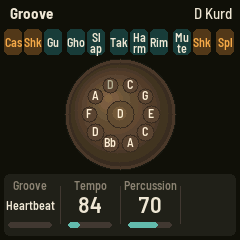
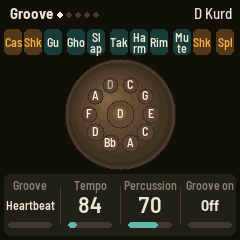
Docs: the arpeggiator, the sequencer and songs, project slots
README: the buttons' new jobs, the new pages and their knobs, sections
for the arp, the sequencer and songs and the project slots, the header's
transport readout, MIDI clock leading the transport, the tests; credit
to Melodee (Kerem Kilic, Ellic Studio) for the arp, the recording and
transport design and the click's voice, in README and LICENSING.md. The
browser page's help and keyboard map follow the gestures (` PLAY, Enter
REC, B ARP, N SEQ). Screenshots: Groove and Setup retaken, Arp, Steps,
Song and Projects added.

diff --git a/web/emu/index.html b/web/emu/index.html
@@ -122,7 +122,7 @@ footer { margin: 2rem 0 0; color: var(--muted); font-size: .88rem; }
 <ol class="quick" aria-label="Quick start">
   <li><span class="n">1</span><b>Switch on</b>, then tap the two middle keys: that's the <b>ding</b>.</li>
   <li><span class="n">2</span>Work <b>outward</b>, right then left, to climb the scale. Every note fits.</li>
-  <li><span class="n">3</span>The <b>white keys at each end</b> thwap the steel. Tap <b>ARP</b> for a groove to play over.</li>
+  <li><span class="n">3</span>The <b>white keys at each end</b> thwap the steel. Press <b>PLAY</b> for a groove to play over (Groove on, <b>SEQ</b>); <b>REC</b> records.</li>
 </ol>
 
 <p class="turn">Turn your phone sideways for bigger controls.</p>
@@ -150,7 +150,8 @@ footer { margin: 2rem 0 0; color: var(--muted); font-size: .88rem; }
       <li>The <b>two white keys at each end</b> are the steel: a palm <b>thwap</b> on the end key, a fingertip <b>tak</b> on the next one in, each on its own side of the shell.</li>
       <li>The <b>black keys</b> are the kit: <b>castanets</b> on the far left, then a <b>shaker</b> (an egg, pushed), <b>Gu</b> (a slap on the bottom port), <b>ghost</b> note, <b>ding slap</b>, <b>tak</b>, the ding's <b>harmonic</b>, <b>rim</b> knock, <b>mute</b>, the <b>shaker</b> pulled back, and a <b>splash</b> cymbal on the far right.</li>
       <li>Set <b>Black</b> to <b>Duo</b> (SEL) and the nine black keys between the castanets and the <b>Gu</b> (now far right) become a second handpan whose scale fits with the first, in the same register, laid out like the white keys: its ding in the middle, its notes alternating outward. Its notes show on its own pan on the screen.</li>
-      <li><b>ARP</b> starts a groove (hold it for its settings). <b>REC</b> mutes. <b>PLAY</b> freezes the grain cloud. <b>OCT−</b> / <b>OCT+</b> move the pan an octave.</li>
+      <li><b>PLAY</b> plays and stops the pattern (or the song) and the groove; hold it to freeze the grain cloud. <b>REC</b> arms recording: the first key you play starts it (hold REC to mute; hold REC and press PLAY for a count-in). <b>OCT−</b> / <b>OCT+</b> move the pan an octave.</li>
+      <li><b>ARP</b>: the arpeggiator. Set its Mode and hold a few notes. Hold <b>SEQ</b> and press a white key to choose a pattern (1 to 16); with SEQ held, <b>OCT−</b> clears it (twice), <b>OCT+</b> copies it, <b>EDIT</b> undoes the last take.</li>
     </ul>
   </div>
   <div>
@@ -159,7 +160,7 @@ footer { margin: 2rem 0 0; color: var(--muted); font-size: .88rem; }
       <li><b>SELECT</b> the metal: <b>Nitrided</b> (warm, the classic dark pan), <b>Stainless</b> (bright, the longest ring), <b>Ember</b> (mellow), <b>Raw</b> steel (earthy, drier).</li>
       <li><b>ALGORITHM</b> the scale, in the key it's usually built in. <b>PRESETS</b> moves the ding to any root.</li>
       <li><b>HOME</b> Pan: metal, strike, sustain, harmonics (how loud the octave and fifth above each note are). Press again for <b>Shell</b>: size (44 to 62 cm), thickness (1.0 to 1.4 mm), sympathy (how much the pan rings along), port (the air inside).</li>
-      <li><b>ENV</b> Touch: worn, humanize, tuning, release. <b>FX</b> Space, Color. <b>LFO</b> Grain, Spread. <b>SEL</b> Keys, Duo. <b>SEQ</b> Groove. <b>GLO</b> Setup. <b>EDIT</b> steps through them all.</li>
+      <li><b>ENV</b> Touch: worn, humanize, tuning, release. <b>FX</b> Space, Color. <b>LFO</b> Grain, Spread. <b>SEL</b> Keys, Duo. <b>ARP</b> Arp, Arp 2. <b>SEQ</b> Groove, Pattern, Steps, Tempo, Song. <b>GLO</b> Setup, Projects (four project slots: OCT+ saves, OCT− loads, each pressed twice). <b>EDIT</b> steps through them all.</li>
       <li>Hold <b>SAVE</b> for 1.5 s to go back to the defaults (SAVE again to confirm).</li>
     </ul>
   </div>
@@ -168,14 +169,14 @@ footer { margin: 2rem 0 0; color: var(--muted); font-size: .88rem; }
     <ul>
       <li><kbd>Space</kbd>, <kbd>G</kbd>, <kbd>H</kbd>: the ding. Home row out from the middle: <kbd>F</kbd> <kbd>J</kbd> <kbd>D</kbd> <kbd>K</kbd> <kbd>S</kbd> <kbd>L</kbd> <kbd>A</kbd> <kbd>;</kbd>, then <kbd>R</kbd> <kbd>U</kbd>. Tak: <kbd>E</kbd> <kbd>I</kbd>. Thwap: <kbd>W</kbd> <kbd>O</kbd>.</li>
       <li>Black keys: <kbd>1</kbd> to <kbd>0</kbd> and <kbd>-</kbd> (<kbd>1</kbd> castanets, <kbd>-</kbd> splash).</li>
-      <li><kbd>B</kbd> groove, <kbd>Enter</kbd> mute, <kbd>`</kbd> freeze, <kbd>Esc</kbd> HOME, <kbd>Z</kbd> / <kbd>X</kbd> octave.</li>
+      <li><kbd>`</kbd> PLAY (hold: freeze), <kbd>Enter</kbd> REC (hold: mute), <kbd>B</kbd> ARP, <kbd>N</kbd> SEQ (hold it with a white key: a pattern), <kbd>Esc</kbd> HOME, <kbd>Z</kbd> / <kbd>X</kbd> octave.</li>
       <li><kbd>↑</kbd> <kbd>↓</kbd> metal, <kbd>←</kbd> <kbd>→</kbd> scale, <kbd>[</kbd> <kbd>]</kbd> key.</li>
       <li>Mouse and touch: drag a knob up or down, or scroll over it. <kbd>Shift</kbd>-click a button to hold it down.</li>
     </ul>
   </div>
   <div>
     <h2>MIDI</h2>
-    <p>Notes strike the note of their pitch at their velocity, so a keyboard or pad controller plays it with real dynamics. <b>Channel 10</b> plays the steel and the kit (kick: Gu, snare: thwap, hats: tak, crash: splash, cabasa and maracas: shaker, castanets). The sustain pedal holds, the mod wheel sets sympathy, pitch bend bends the ringing notes, program change picks the metal, and MIDI clock leads the groove. Needs Web MIDI (Chrome or Edge).</p>
+    <p>Notes strike the note of their pitch at their velocity, so a keyboard or pad controller plays it with real dynamics. <b>Channel 10</b> plays the steel and the kit (kick: Gu, snare: thwap, hats: tak, crash: splash, cabasa and maracas: shaker, castanets). The sustain pedal holds, the mod wheel sets sympathy, pitch bend bends the ringing notes, program change picks the metal, and MIDI clock leads the transport: the arp, the sequencer and the groove. Needs Web MIDI (Chrome or Edge).</p>
   </div>
 </section>
 
@@ -357,8 +358,9 @@ function hit(c, cls) {
 // what each control does, on hover (the Buttons list below says the same)
 const TIP = { FX: "Space, then Color: reverb, delay; tape, lo-fi, chorus, filter", SEL: "Keys, then Duo: layout, scale, key, black keys; the second pan",
   ENV: "Touch: worn, humanize, tuning, release", LFO: "Grain, then Spread: the grain cloud; spray, feedback, width", EDIT: "Every page in turn",
-  GLO: "Setup page", HOME: "Pan, then Shell: metal, strike, sustain, harmonics; size, thickness, sympathy, port", SAVE: "Save (hold: reset to the defaults)",
-  ARP: "Tap: a groove on / off. Hold: its settings", SEQ: "Groove page: groove, tempo, percussion", PLAY: "Freeze the grains", REC: "Palm mute: damp everything",
+  GLO: "Setup, then Projects: tuning, MIDI, theme; the project slots", HOME: "Pan, then Shell: metal, strike, sustain, harmonics; size, thickness, sympathy, port", SAVE: "Save (hold: reset to the defaults)",
+  ARP: "Arp, then Arp 2: the arpeggiator", SEQ: "Groove, Pattern, Steps, Tempo, Song. Held: white keys choose a pattern",
+  PLAY: "Play / stop. Hold: freeze the grains", REC: "Arm recording. Hold: palm mute; with PLAY: count in",
   "OCT-": "Octave down", "OCT+": "Octave up", SELECT: "Metal", ALGORITHM: "Scale (in its usual key)", PRESETS: "Key: the ding's note",
   MASTER: "Volume" };
 for (const [n, c] of [...Object.entries(buttons), ...Object.entries(knobs)]) if (TIP[n]) c.g.setAttribute("aria-description", TIP[n]);
@@ -481,7 +483,7 @@ const CODE = { ";": "Semicolon" };
 WHITE_HINT.forEach((c, i) => KEYMAP[CODE[c] || "Key" + c] = { key: WHITE_K[i] });
 KEYMAP.Space = { key: WHITE_K[7] };
 BLACK_HINT.forEach((c, i) => KEYMAP[c === "-" ? "Minus" : "Digit" + c] = { key: BLACK_K[i] });
-Object.assign(KEYMAP, { KeyB: { btn: BTN.ARP }, Backquote: { btn: BTN.PLAY }, Enter: { btn: BTN.REC },
+Object.assign(KEYMAP, { KeyB: { btn: BTN.ARP }, KeyN: { btn: BTN.SEQ }, Backquote: { btn: BTN.PLAY }, Enter: { btn: BTN.REC },
                         Escape: { btn: BTN.HOME }, KeyZ: { btn: BTN["OCT-"] }, KeyX: { btn: BTN["OCT+"] } });
 addEventListener("keydown", (e) => {
   if (!node || e.metaKey || e.ctrlKey || e.altKey) return;

diff --git a/README.md b/README.md
@@ -24,6 +24,9 @@ C code compiled to WebAssembly, with mouse, touch, computer keyboard and MIDI in
 
 - [Pick it up and play](#pick-it-up-and-play)
 - [The controls](#the-controls)
+- [The arpeggiator](#the-arpeggiator)
+- [Sequencer and songs](#sequencer-and-songs)
+- [Project slots](#project-slots)
 - [The scales](#the-scales)
 - [How the handpan works](#how-the-handpan-works)
 - [MIDI](#midi)
@@ -43,7 +46,9 @@ C code compiled to WebAssembly, with mouse, touch, computer keyboard and MIDI in
 3. **The white keys at the ends are the steel.** The end keys are palm thwaps, the next ones in are
    fingertip taks, each on its own side of the shell. The black keys are a kit: castanets, shakers,
    the pan's own hits and a splash cymbal.
-4. **Tap ARP** for a groove (ding, fields, taks and thwaps), and play over it.
+4. **Press PLAY** with Groove on (SEQ, KNOB 4) for a groove (ding, fields, taks and thwaps), and play
+   over it. Tap **REC** and play to record a pattern; turn the **arp** on (ARP, KNOB 1) and hold a few
+   keys to hear them in turn.
 5. **Turn ALGORITHM** to change the scale (it comes in the key makers usually build it in) and
    **PRESETS** to move it to any key. **SELECT** changes the metal.
 
@@ -145,13 +150,14 @@ show which page you're on.
 | **FX**                            | Space → Color | Reverb and delay; tape, lo-fi, chorus, filter                                                  |
 | **LFO**                           | Grain → Spread | The grain cloud; its scatter, the echoes' feedback, the stereo width                          |
 | **SEL**                           | Keys → Duo  | Layout, scale, key, black keys; the second pan, its level, the percussion level, the octave      |
-| **SEQ**                           | Groove      | The groove's settings                                                                            |
-| **GLO**                           | Setup       | Tuning, MIDI, the theme; the version and CPU load                                                |
+| **ARP**                           | Arp → Arp 2 | The arpeggiator ([below](#the-arpeggiator)). Flashes on the beat while it's on                   |
+| **SEQ**                           | Groove → Pattern → Steps → Tempo → Song | The groove; the pattern, its steps, the tempo and recording, the song ([below](#sequencer-and-songs)) |
+| **GLO**                           | Setup → Projects | Tuning, MIDI, the theme; the project slots ([below](#project-slots))                        |
 | **EDIT**                          |             | Every page in turn                                                                               |
-| **ARP**                           |             | **Tap:** the groove on and off. Lit while it runs, dark on each beat. **Hold:** the Groove page. |
-| **PLAY**                          |             | Freeze the grain cloud; again to go live                                                         |
-| **REC**                           |             | Palm mute                                                                                        |
-| **OCT− / OCT+**                   |             | Move the pan an octave down or up                                                                |
+| **PLAY**                          |             | **Tap:** play and stop (the pattern, or the song; the groove with it). Lit while it plays, dark on each beat. **Hold ½ s:** freeze the grain cloud; again to go live |
+| **REC**                           |             | **Tap:** arm recording, and again to stop. Lit while recording, blinking while it waits. **Hold ½ s:** palm mute. **Hold with PLAY:** record after the count-in |
+| **SEQ held**                      |             | White keys 1–16 choose patterns 1–16 (playing: from the loop's end). **OCT−** clears the pattern (twice), **OCT+** copies it into the next empty one, **EDIT** undoes the last take |
+| **OCT− / OCT+**                   |             | Move the pan an octave down or up (Projects page: load / save the slot)                          |
 | **SAVE**                          |             | Save now (settings also save themselves a few seconds after a change). Hold 1.5 s: reset.        |
 | **OCT− + OCT+, held 5 s**         |             | Update mode (to install firmware)                                                                |
 | **OCT− + OCT+, held at power-on** |             | Hardware calibration                                                                             |
@@ -213,15 +219,20 @@ pitch, spray) and the stereo width. Every effect fades in and out without a clic
 | Percussion | 0–100 (70)          | The level of every hit on the steel                               |
 | Octave     | −1–+1 (0)           | The same as OCT− / OCT+                                           |
 
-**SEQ → Groove** (or hold ARP)
+**ARP → Arp**, **ARP → Arp 2**: the arpeggiator ([below](#the-arpeggiator)).
 
-![A groove running](docs/img/groove.png)
+**SEQ → Groove**
+
+![The Groove page](docs/img/groove.png)
 
 | Knob       | Range (default)                                   | What it does                                   |
 | ---------- | ------------------------------------------------- | ---------------------------------------------- |
-| Groove     | Heartbeat, Cascade, 3 over 2, Backbeat (Heartbeat) | Which groove ARP plays ([below](#grooves))     |
-| Tempo      | 40–200 BPM (84)                                   | Three pulses a beat. MIDI clock takes over while it comes in. |
+| Groove     | Heartbeat, Cascade, 3 over 2, Backbeat (Heartbeat) | Which groove plays ([below](#grooves))        |
+| Tempo      | 40–240 BPM (84)                                   | The one tempo: the groove, the arp, the sequencer. MIDI clock takes over while it comes in. |
 | Percussion | 0–100 (70)                                        | The same as on the Duo page                    |
+| Groove on  | Off, On (Off)                                     | On: PLAY starts the groove with the transport  |
+
+**SEQ → Pattern**, **Steps**, **Tempo**, **Song**: the sequencer ([below](#sequencer-and-songs)).
 
 **GLO → Setup**
 
@@ -234,6 +245,8 @@ pitch, spray) and the stereo width. Every effect fades in and out without a clic
 
 The header shows the firmware version and the audio load (**CPU %**), and counts any dropouts.
 
+**GLO → Projects**: the four project slots ([below](#project-slots)).
+
 **Reset to the defaults:** hold SAVE for 1.5 s, then press SAVE again. Any other button, or 5 s
 of nothing, keeps everything. The Setup page is kept either way.
 
@@ -241,8 +254,10 @@ of nothing, keeps everything. The Setup page is kept either way.
 
 ![The Light theme](docs/img/light.png) ![Setup](docs/img/setup.png)
 
-- **Header:** the page, its dots, tags (**FRZ** frozen grains, **GRV** a groove, bright on the beat,
-  **DAMP**), and the pan: "D Kurd".
+- **Header:** the page, its dots, tags (**FRZ** frozen grains, **GRV** the groove, bright on the beat,
+  **DAMP**), and the pan: "D Kurd". While the transport plays, where it is takes the pan's place: "P2
+  3.1" (pattern 2, bar 3, beat 1), "S4 1.2" (the song's section 4), **REC 1.3** recording, **WAIT 2.4**
+  armed and waiting for the pattern's start, **IN 3** the count-in's beats to go, **REC** armed.
 - **The pan from above**, shaded in its metal. Each field shows its note, glows as it rings, and
   sends a ripple out when struck. A thwap or tak lights the rim on that side; the Gu breathes in a
   ring round the ding. With Duo, the second pan stands to the right.
@@ -251,6 +266,123 @@ of nothing, keeps everything. The Setup page is kept either way.
   each lights as it sounds. With Duo it shows only the two end keys (castanets, Gu): the second pan
   shows its own notes, and their place in the strip stays empty.
 - **The knobs:** the page's four values. The one you turned is highlighted for a moment.
+
+## The arpeggiator
+
+Turn **Mode** on (ARP, KNOB 1) and the notes you hold, on the white keys and on the second pan's
+black keys, play one after another at the **Rate**, over as many **Octaves** as you like (an octave up
+of a pan note is still in its scale). The steel and the kit still play at once. It runs whether the
+transport plays or not, at the Tempo or following MIDI clock; while the transport plays it falls on
+its grid. Recording, what the arp plays is what's recorded. ARP flashes on each beat while it's on.
+(After Melodee's arpeggiator.)
+
+![The Arp page](docs/img/arp.png)
+
+**ARP → Arp**
+
+| Knob    | Range (default)                                                    | What it does                                     |
+| ------- | ------------------------------------------------------------------ | ------------------------------------------------ |
+| Mode    | Off, Up, Down, Up-down, Random, Repeat (Off)                       | The order: Repeat plays the last note held, again |
+| Rate    | 1/4, 1/8, 1/16, 1/32, 1/8T, 1/16T, 1/2, 1/1, 2 bars, 4 bars (1/16) | How often                                        |
+| Octaves | 1–4 (1)                                                            | The held notes, then an octave up, and so on     |
+| Gate    | 1–127 (64)                                                         | How long each note is held: its length when recorded, and when it's damped with Release on Damp (on Ring it rings, as a strike does) |
+
+**ARP → Arp 2**
+
+| Knob   | Range (default)      | What it does                                                         |
+| ------ | -------------------- | -------------------------------------------------------------------- |
+| Swing  | 0–100 (0)            | Every second note later                                              |
+| Chance | 0–127 (127)          | How likely each step is to play (127: always)                        |
+| Hold   | Off, On (Off)        | On: the notes keep playing after you let go; the next chord replaces them |
+| Order  | Note, Played (Note)  | Low to high, or in the order the keys went down                      |
+
+## Sequencer and songs
+
+One clock runs the arp, the sequencer and the groove: the Tempo (SEQ → Tempo or Groove), or MIDI
+clock while it comes in (Start plays from the top, Stop stops). The project holds **16 patterns**,
+each up to 64 steps long with its own step length and swing, and a **song** of up to 64 sections.
+Everything the instrument plays goes in a pattern: the pan's notes, the second pan's, and the hits on
+the steel and the kit, recorded as you played them (time within the step, how long you held it, how
+hard), up to about a thousand notes in all.
+
+**Recording.** Tap **REC** to arm it. Stopped, the first key you play starts the transport and is
+recorded at the pattern's start. Hold REC and press PLAY to start with the count-in (1 or 2 bars,
+Tempo page). Armed while it plays, it waits for the pattern's next start (**WAIT**), then records
+loop after loop: each pass adds to what's there, and a note played where the same note already is
+replaces it. Tap REC again, or stop, to end the take; **Quantize** then moves the take's notes to the
+grid. **SEQ + EDIT** undoes the last take. The **click** counts the beats while recording (Rec) or
+always (On); a count-in clicks either way. (After Melodee's recording and transport.)
+
+**Patterns.** Hold **SEQ** and press white key 1–16 to choose a pattern (while playing, it starts at
+the end of the loop). With SEQ held, **OCT−** clears it (press it twice), **OCT+** copies it into the
+next empty pattern. An empty pattern records from scratch.
+
+![The Steps page](docs/img/steps.png) ![The Song page](docs/img/song.png)
+
+**SEQ → Pattern**
+
+| Knob     | Range (default)                     | What it does                                     |
+| -------- | ----------------------------------- | ------------------------------------------------ |
+| Pattern  | 1–16 (1)                            | The pattern played and edited                    |
+| Length   | 1–64 steps (16)                     | How many steps                                   |
+| Division | as the arp's Rate (1/16)            | A step's length                                  |
+| Swing    | 0–100 (0)                           | Every second step later                          |
+
+**SEQ → Steps**: the pattern as a grid of its steps (a note teal, a hit gold, a held note's steps
+tinted, the step playing lit). Stopped, a key you play writes its note at the cursor and moves it on
+(keys held together: a chord).
+
+| Knob     | Range                                    | What it does                                          |
+| -------- | ---------------------------------------- | ----------------------------------------------------- |
+| Step     | 1 to the pattern's length                | The cursor                                            |
+| Note     | Rest, the notes the keys reach, the second pan's (Duo), every hit | The step's note                |
+| Length   | 1–16 steps                               | How long it's held                                    |
+| Velocity | 1–127                                    | How hard                                              |
+
+**SEQ → Tempo**
+
+| Knob     | Range (default)                              | What it does                                       |
+| -------- | -------------------------------------------- | -------------------------------------------------- |
+| Tempo    | 40–240 BPM (84)                              | The same as on the Groove page                     |
+| Quantize | Off, 1/4, 1/8, 1/16, 1/32, 1/8T, 1/16T (Off) | Where a take's notes go when it ends               |
+| Count-in | Off, 1 bar, 2 bars (Off)                     | Before REC + PLAY records (not under MIDI clock)   |
+| Click    | Off, Rec 1–10, On 1–10 (Off)                 | When it clicks (recording, or always) and how loud. It's added after the instrument, which it never changes |
+
+**SEQ → Song**: Song On, PLAY plays the sections in order, each its pattern so many times; at **End**
+(or after section 64) it stops, or with **Loop** goes round again.
+
+| Knob    | Range (default)        | What it does                    |
+| ------- | ---------------------- | ------------------------------- |
+| Section | 1–64                   | The section shown               |
+| Pattern | 1–16, End (End)        | What it plays                   |
+| Repeats | 1–16 (1)               | How many times                  |
+| Song    | Off, On, Loop (Off)    | Off: PLAY plays the pattern     |
+
+The sequence saves itself as the settings do, a few seconds after a change, never while the transport
+plays.
+
+## Project slots
+
+**GLO → Projects** keeps four whole projects, **A** to **D**: the sound and the settings, the
+patterns and the song, and a name. The screen lists the slots and their names.
+
+![The Projects page](docs/img/projects.png)
+
+| Knob      | Range      | What it does                                                     |
+| --------- | ---------- | ---------------------------------------------------------------- |
+| Slot      | A–D        | Which slot                                                       |
+| Letter    | 1–15       | Which letter of the project's name the next knob sets            |
+| Character | A–Z, 0–9, -, space | That letter                                              |
+
+- **OCT+**, twice: save the working project, with its name, into the slot.
+- **OCT−**, twice: load the slot into the working project (the transport stops). The Setup page's
+  values (tuning, MIDI, the theme) stay as they are.
+
+The working project and its sequence, the four slots, and the panel's calibration each keep two
+copies in the FM-1's flash, and a save writes the older one, its header last: a save cut short by a
+power cut leaves the last good one in charge. A content manager (such as a web page) can list, read,
+write and rename them through the same code (`firmware/src/app/content.h`): a write is checked whole
+before it replaces anything.
 
 ## The scales
 
@@ -393,7 +525,8 @@ The **castanets** are a click into the shells' short ring. **Percussion** sets t
 
 ### Grooves
 
-ARP plays a groove over the pan: a cycle of 12 pulses, three to a beat. Each pulse plays the ding, a
+With **Groove on** (SEQ → Groove, KNOB 4), PLAY starts a groove with the transport: a cycle of 12
+pulses, three to a beat. Each pulse plays the ding, a
 field (counted up from the ding), or a hit on the steel. The first pulse is accented and no two
 strikes are quite the same strength. The white keys play over it.
 
@@ -418,7 +551,7 @@ MIDI comes in over USB and the TRS jack, on the Setup page's channel (Omni by de
 | CC 120, CC 123                   | Damp everything                                                                  |
 | Program change                   | Metal (0–3, wrapping)                                                            |
 | Pitch bend                       | ±2 semitones, on every ringing note                                              |
-| Clock, Start, Continue, Stop     | The groove follows the clock                                                     |
+| Clock, Start, Continue, Stop     | The transport follows: the clock sets the tempo (the arp, the sequencer, the groove), Start plays from the top, Continue plays on, Stop stops |
 
 **Out** (off by default; Setup KNOB 3): the keys are sent as notes on the Setup channel.
 
@@ -433,8 +566,8 @@ right now (its note, or its hit), and the computer key that plays it.
 - **Computer keyboard:** <kbd>Space</kbd>, <kbd>G</kbd> or <kbd>H</kbd> for the ding; out along the
   home row (<kbd>F</kbd> <kbd>J</kbd> <kbd>D</kbd> <kbd>K</kbd> <kbd>S</kbd> <kbd>L</kbd> <kbd>A</kbd>
   <kbd>;</kbd>), then <kbd>R</kbd> <kbd>U</kbd>; tak <kbd>E</kbd> <kbd>I</kbd>, thwap <kbd>W</kbd>
-  <kbd>O</kbd>. Black keys <kbd>1</kbd>–<kbd>0</kbd> and <kbd>-</kbd>. <kbd>B</kbd> groove, <kbd>Enter</kbd> mute,
-  <kbd>`</kbd> freeze, <kbd>Esc</kbd> HOME, <kbd>Z</kbd>/<kbd>X</kbd> octave, <kbd>↑</kbd>/<kbd>↓</kbd>
+  <kbd>O</kbd>. Black keys <kbd>1</kbd>–<kbd>0</kbd> and <kbd>-</kbd>. <kbd>`</kbd> PLAY (hold: freeze),
+  <kbd>Enter</kbd> REC (hold: mute), <kbd>B</kbd> ARP, <kbd>N</kbd> SEQ, <kbd>Esc</kbd> HOME, <kbd>Z</kbd>/<kbd>X</kbd> octave, <kbd>↑</kbd>/<kbd>↓</kbd>
   metal, <kbd>←</kbd>/<kbd>→</kbd> scale, <kbd>[</kbd>/<kbd>]</kbd> key.
 - **MIDI:** "Connect MIDI" uses Web MIDI (Chrome or Edge).
 - **Saving:** SAVE keeps your settings in that browser.
@@ -460,6 +593,13 @@ python3 tools/fm1_install.py build/hp1.fwsc
   octave and fifth, the shimmer (3–9 Hz) and the decays measured pans have, damping, sympathy, every hit (its side, the Gu's pitch against the
   size, the mute, the slap, the harmonic), the effects, that nothing clicks, the grooves and MIDI
   clock, and a 20-minute run. It writes one WAV per metal to `build/host/materials/`.
+- **The sound held still** (`tests/host/golden_test.c`): a fixed performance rendered on every metal
+  against `tests/host/golden.txt`.
+- **The sequencer test** (`tests/host/seq_test.c`) checks the clock (no drift, MIDI clock), the arp's
+  orders, octaves, rate, swing, gate, chance and hold, recording (timing, length, overdub, quantize,
+  undo), swing and divisions in playback, pattern changes, songs, the count-in, the click and the
+  groove's pulses. **The storage test** checks objects of several sectors, a torn save across them,
+  saves from pieces, and the staged writes the web uses.
 - **The host simulator** (`build/host/hp1_host SCRIPT OUTDIR`) runs the whole firmware from a
   script (`tests/scenarios/*.kal`). The screenshots in this README are its output.
 - **GitHub Actions** tests everything, builds the firmware and the web app, and publishes the site.
@@ -489,6 +629,7 @@ the second pan, the grooves, the screen, the pages and the tests.
 | [Felucca](https://github.com/hugelton/Felucca), Leo Kuroshita (@kurogedelic), Hügelton Instruments | The platform: hardware layer, USB, storage, update loader, OTA, MIDI, LCD, drawing, build and install tools | GPL-3.0-only |
 | [X0X](https://github.com/charlesvestal/fm1-x0x), Charles Vestal                                    | The platform adapted for another instrument, the host simulator                             | GPL-3.0-only |
 | [FoMni](https://github.com/charlesvestal/fm1-fomni), Charles Vestal                                | Boot, safe mode, panel map, project storage, the UI's frame, the maths library, the plate reverb, the browser emulator | GPL-3.0-only |
+| [Melodee](https://github.com/keremimo/melodee), Kerem Kilic (Ellic Studio)                         | The arpeggiator, the recording and transport gestures, the song's sections and the click's voice (adapted for one instrument) | GPL-3.0-only |
 | Jon Dattorro, "Effect Design, Part 1" (JAES, 1997)                                                 | The plate reverb's design                                                                   | —            |
 | Barlow (The Barlow Project Authors), Terminus (Dimitar Toshkov Zhekov)                             | The screen's fonts                                                                          | SIL OFL 1.1  |
 | JieLi AC79 SDK                                                                                     | Three small files placed in the package at build time (not in this repository)              | Apache-2.0   |

diff --git a/LICENSING.md b/LICENSING.md
@@ -15,7 +15,8 @@ complete corresponding source under the same license.
 | Platform tests (`tests/host/{fastmath,encoder,uac,trs}_test.c`, `tests/{storage,ota,ldr}_test.c`, `tests/install_test.py`) | FoMni / Felucca | GPL-3.0-only |
 | The simulated FM-1 for the web installer's tests (`tests/web/fake_fm1.mjs`) and the installer panel's protocol use (`web/fm1ota.js`, `web/fm1pkg.js`, inlined into the page) | Felucca's `web/test_web.mjs` and update modules, by way of FoMni's web installer | GPL-3.0-only |
 | The modal voice, the effects (chorus, filter, tape, lo-fi), the grain cloud, the delay, the command queue's use, the browser page's frame (`web/emu/`), the scenario harness, and the frame of the tests | [FiMba-1](https://github.com/jadamsowers/fm1-fimba) (itself from FoMni) | GPL-3.0-only |
-| Everything else: the tone fields, the shell, the cavity, the percussion, sympathy, the handpan scales and the second pan, the grooves (`firmware/src/dsp/handpan.{c,h}`), the UI's instrument and pages (`firmware/src/app/ui.c`), `tests/host/handpan_test.c`, `tests/scenarios/` | HP-1 | GPL-3.0-only |
+| The arpeggiator (its modes, rate, octaves, gate, swing, chance, hold and order), the recording's design (overdub, quantize when a take ends, one undo, REC and PLAY's gestures), the song's sections, and the click's voice (`firmware/src/app/{seq,click}.c`) | adapted from [Melodee](https://github.com/keremimo/melodee), Copyright (C) 2026 Kerem Kilic (Ellic Studio): its `seq.c`, `recording.c`, `song_chain.c`, `ui_input.c` and `click.c`, reshaped for one instrument | GPL-3.0-only |
+| Everything else: the tone fields, the shell, the cavity, the percussion, sympathy, the handpan scales and the second pan, the grooves (`firmware/src/dsp/handpan.{c,h}`), the UI's instrument and pages (`firmware/src/app/ui.c`), the sequencer's events, patterns and songs and their storage, the project slots and the content API (`firmware/src/app/{seq,content}.{c,h}`, `plat_store.c`, the several-sector objects and staged writes in `firmware/src/storage.c`), `tests/host/{handpan,seq,golden}_test.c`, `tests/scenarios/` | HP-1 | GPL-3.0-only |
 
 ## Third-party material
 
